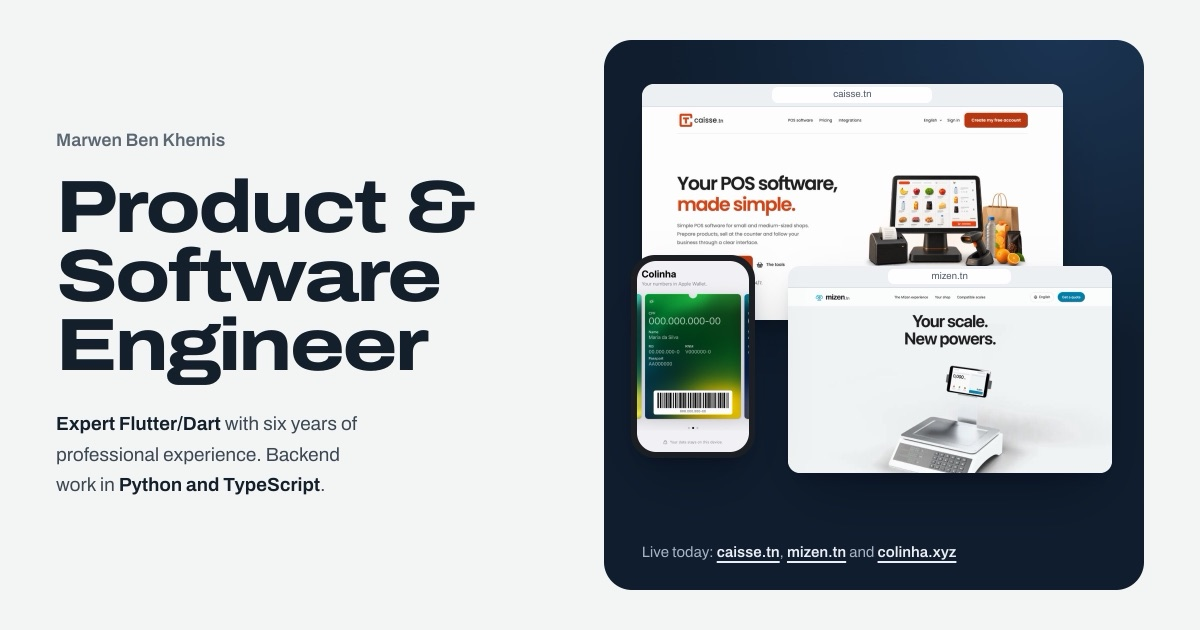
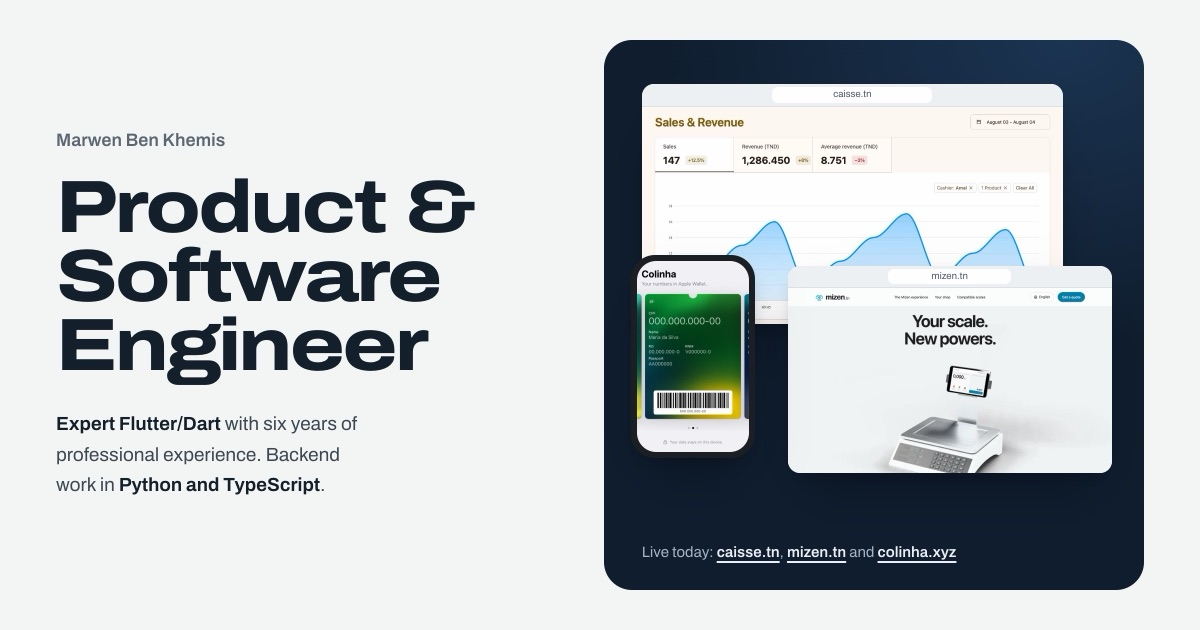
Present caisse.tn as Makhbazti's successor with its back office
Rename the Jerbien case study to caisse.tn, the successor to Makhbazti's
bakery ERP and production planning, with 20M transactions handled. Replace
the caisse.tn marketing screenshots with the real back office sales screen
(sample data from visual tests) and refresh the share image.

Changed region(s): [[0.555, 0.181, 0.8633, 0.5127], [0.7708, 0.181, 0.8633, 0.2111], [0.5242, 0.181, 0.6167, 0.2111]]

diff --git a/index.html b/index.html
@@ -8,7 +8,7 @@
   <meta name="description" content="Marwen Ben Khemis: product and software engineering from business discovery and architecture through implementation, release and support. Live products: caisse.tn, Mizen and Colinha.">
   <meta property="og:type" content="website">
   <meta property="og:title" content="Marwen Ben Khemis — Product &amp; Software Engineer">
-  <meta property="og:description" content="Live products caisse.tn, Mizen and Colinha, plus case studies: Karta, a customs platform that processed USD 30M in cumulative case value, and Jerbien, a POS with 10M+ transactions.">
+  <meta property="og:description" content="Live products caisse.tn, Mizen and Colinha, plus case studies: Karta, a customs platform that processed USD 30M in cumulative case value, and caisse.tn, a POS and retail operations platform that has handled 20M transactions.">
   <meta property="og:url" content="https://marwenbk.github.io/">
   <meta property="og:image" content="https://marwenbk.github.io/og.jpg">
   <meta name="twitter:card" content="summary_large_image">
@@ -48,14 +48,14 @@
         </div>
         <dl class="hero-impact" aria-label="Selected impact">
           <div><dt><a href="#karta">Karta</a></dt><dd><strong>USD 30M</strong> cumulative customs case value processed through the platform.</dd></div>
-          <div><dt><a href="#jerbien">Jerbien</a></dt><dd><strong>10M+ transactions</strong> handled by the POS and retail operations product.</dd></div>
+          <div><dt><a href="#caisse-case">caisse.tn</a></dt><dd><strong>20M transactions</strong> handled by the POS and retail operations platform.</dd></div>
         </dl>
       </div>
 
       <div class="hero-stage" aria-label="Three products I built, live today">
         <figure class="frame frame-browser stage-caisse">
           <div class="frame-bar" aria-hidden="true"><span class="frame-url">caisse.tn</span></div>
-          <img src="assets/caisse-en.jpg" width="1600" height="811" alt="The caisse.tn home page in English: Your POS software, made simple, with a touchscreen till, receipt printer and barcode scanner.">
+          <img src="assets/caisse-sales-light.jpg" width="1280" height="660" alt="The caisse.tn back office: the day's sales, revenue in Tunisian dinars and an hourly sales chart.">
         </figure>
         <figure class="frame frame-browser stage-mizen">
           <div class="frame-bar" aria-hidden="true"><span class="frame-url">mizen.tn</span></div>
@@ -79,19 +79,19 @@
           <figure class="product-media">
             <div class="frame frame-browser">
               <div class="frame-bar" aria-hidden="true"><span class="frame-url">caisse.tn</span></div>
-              <img src="assets/caisse-ar.jpg" width="1600" height="811" loading="lazy" alt="The caisse.tn home page in Tunisian Arabic, laid out right to left.">
+              <img src="assets/caisse-sales-dark.jpg" width="1280" height="980" loading="lazy" alt="The caisse.tn back office in dark mode: sales, revenue and average basket, an hourly sales chart, and top products such as croissants, pain complet and mille-feuille.">
             </div>
-            <figcaption>The home page in Tunisian Arabic, the default language. It's also in French and English.</figcaption>
+            <figcaption>The back office's sales screen, shown with sample bakery data from the app's visual tests.</figcaption>
           </figure>
           <div class="product-text">
             <h3 id="caisse-title">caisse.tn</h3>
             <p class="product-kind">Point-of-sale software for small shops in Tunisia</p>
-            <p>caisse.tn is the Jerbien POS under its public name. The software is free for shops, and the site also sells touchscreen tills that arrive set up and ready to sell.</p>
+            <p>caisse.tn is the successor to Makhbazti, my bakery ERP and production-planning product, and it has handled 20 million transactions. The software is free for shops, and the site also sells touchscreen tills that arrive set up and ready to sell.</p>
             <p>At the counter, cashiers scan barcodes, sell by the piece or by weight, park a basket and come back to it, and keep selling when the internet drops. Owners import their catalogue from Excel, compare sales by period, product or cashier, and run several shops from one account.</p>
             <h4>What I built</h4>
             <p>The Flutter POS that runs on Android, Windows and Linux tills, the customer-facing display, the TypeScript and PostgreSQL backend, and the web back office, in Tunisian Arabic, French and English.</p>
             <p class="product-stack">Flutter, Dart, TypeScript, Node.js, PostgreSQL, Nuxt</p>
-            <p class="product-links"><a href="https://caisse.tn/en" target="_blank" rel="noopener">Visit caisse.tn <span aria-hidden="true">↗</span></a><a href="#jerbien">Read the Jerbien case study</a></p>
+            <p class="product-links"><a href="https://caisse.tn/en" target="_blank" rel="noopener">Visit caisse.tn <span aria-hidden="true">↗</span></a><a href="#caisse-case">Read the case study</a></p>
           </div>
         </article>
 
@@ -168,28 +168,28 @@
           </div>
         </article>
 
-        <article class="case" id="jerbien" aria-labelledby="jerbien-title">
+        <article class="case" id="caisse-case" aria-labelledby="caisse-case-title">
           <header class="case-header">
-            <div><p class="case-category">Retail &amp; business operations</p><h3 id="jerbien-title">Jerbien</h3><p class="case-summary">A complete POS and operations product built through Makhbazti Digitale. <a href="#caisse">Live today as caisse.tn</a>.</p></div>
-            <div class="case-role"><strong>Founder &amp; CEO, Makhbazti Digitale</strong><span>Oct 2020 – Jan 2026</span></div>
+            <div><p class="case-category">Retail &amp; business operations</p><h3 id="caisse-case-title">caisse.tn</h3><p class="case-summary">A complete POS and retail operations platform, and the successor to Makhbazti, a bakery ERP and production-planning product. Its POS was first built as Jerbien. <a href="#caisse">See the product</a>.</p></div>
+            <div class="case-role"><strong>Founder &amp; CEO, caisse.tn (formerly Makhbazti Digitale)</strong><span>Oct 2020 – Jan 2026</span></div>
           </header>
-          <dl class="case-impact" aria-label="Jerbien and Makhbazti impact">
-            <div><dt>Transactions handled by Jerbien</dt><dd>10M+</dd></div>
+          <dl class="case-impact" aria-label="caisse.tn and Makhbazti impact">
+            <div><dt>Transactions handled by caisse.tn</dt><dd>20M</dd></div>
             <div><dt>Less cashier checkout time across the wider redesign</dt><dd>About 80%</dd></div>
             <div><dt>Makhbazti bakery locations reached within three months</dt><dd>15+</dd></div>
           </dl>
           <div class="case-body">
             <div class="context-role">
-              <section aria-labelledby="jerbien-context"><h4 id="jerbien-context">Context</h4><p>The product served daily retail work: cashier checkout, catalogues, sales, refunds, customers and store operations. It needed to fit the people using it, keep checkout working through network interruptions, and connect the counter to the business tools behind it.</p></section>
-              <section aria-labelledby="jerbien-role"><h4 id="jerbien-role">My role</h4><p>I founded Makhbazti Digitale and led field research with owners, cashiers and staff. Their needs and habits informed the product priorities, UX and architecture.</p><p>I built across the product, led releases, customer rollout and support, and recruited, trained and mentored more than 50 interns.</p></section>
+              <section aria-labelledby="caisse-case-context"><h4 id="caisse-case-context">Context</h4><p>The product served daily retail work: cashier checkout, catalogues, sales, refunds, customers and store operations. It needed to fit the people using it, keep checkout working through network interruptions, and connect the counter to the business tools behind it.</p></section>
+              <section aria-labelledby="caisse-case-role"><h4 id="caisse-case-role">My role</h4><p>I founded Makhbazti Digitale and led field research with owners, cashiers and staff. Their needs and habits informed the product priorities, UX and architecture.</p><p>I built across the product, led releases, customer rollout and support, and recruited, trained and mentored more than 50 interns.</p></section>
             </div>
-            <section class="built" aria-labelledby="jerbien-built"><h4 id="jerbien-built">What I built</h4><div class="build-grid build-grid-four">
+            <section class="built" aria-labelledby="caisse-case-built"><h4 id="caisse-case-built">What I built</h4><div class="build-grid build-grid-four">
               <div><h5>Flutter POS clients</h5><p>Checkout and daily cashier workflows, with deliberate information hierarchy, whitespace and interaction details. The wider redesign combined cashier habits, shortcuts and hardware inputs.</p></div>
               <div><h5>Operations backend</h5><p>A TypeScript/PostgreSQL API for stores, users, catalogues, sales, payments and refunds, with typed validation and generated clients.</p></div>
               <div><h5>Merchant &amp; admin tools</h5><p>A Nuxt merchant portal for the store's business workflows, plus React administration tools for device status, alerts, command history and operations.</p></div>
               <div><h5>Offline work &amp; integrations</h5><p>Offline checkout and queued sales, connected printing and barcode scanning, POS networking and device integrations that supported everyday use.</p></div>
             </div></section>
-            <section class="delivery" aria-labelledby="jerbien-delivery"><h4 id="jerbien-delivery">Delivery &amp; support</h4><p>I built and operated CI/CD and release pipelines, infrastructure and monitoring, then led customer rollout and production support. Makhbazti products reached 15+ bakery locations within three months; the company earned Tunisia's national Startup Label.</p></section>
+            <section class="delivery" aria-labelledby="caisse-case-delivery"><h4 id="caisse-case-delivery">Delivery &amp; support</h4><p>I built and operated CI/CD and release pipelines, infrastructure and monitoring, then led customer rollout and production support. Makhbazti products reached 15+ bakery locations within three months; the company earned Tunisia's national Startup Label.</p></section>
             <details class="technical-detail"><summary>Technical detail <span class="plus" aria-hidden="true"></span></summary><div><p>The backend implemented atomic sales and refunds, idempotency controls, exact decimal money handling, ledger-safe reversals and generated Dart/TypeScript SDKs. Authentication included passkeys and JWTs.</p><p>Delivery included GitHub Actions, container publishing, Linux packaging, health checks and monitoring. Flutter clients supported offline work, queued local changes and idempotent replay.</p></div></details>
           </div>
         </article>
@@ -204,7 +204,7 @@
         </div>
         <ol class="experience-list">
           <li><p class="experience-date">Jul 2025 – Aug 2026</p><div><h3>Karta / DJAM DKS</h3><p class="experience-role">Forward Deployed Engineer → CTO</p></div><p>Forward Deployed Engineer, remote from Tunis (Jul 2025–Feb 2026); CTO, on-site in Abidjan (Feb–Aug 2026). Business discovery, workflow architecture, implementation and production support.</p></li>
-          <li><p class="experience-date">Oct 2020 – Jan 2026</p><div><h3>Makhbazti Digitale</h3><p class="experience-role">Founder &amp; CEO</p></div><p>Led field research, built Jerbien and other retail products, and owned rollout and support. Recruited, trained and mentored 50+ interns.</p></li>
+          <li><p class="experience-date">Oct 2020 – Jan 2026</p><div><h3>caisse.tn</h3><p class="experience-role">Founder &amp; CEO, formerly Makhbazti Digitale</p></div><p>Founded Makhbazti, a bakery ERP and production-planning product, which grew into caisse.tn, a POS and retail operations platform. Led field research, built the products, and owned rollout and support. Recruited, trained and mentored 50+ interns.</p></li>
           <li><p class="experience-date">May – Jul 2025</p><div><h3>Moojup</h3><p class="experience-role">IT Specialist (Flutter / Android), internship</p></div><p>Built a reusable Flutter integration for device functions, giving partner teams a Dart API for native Android capabilities.</p></li>
           <li><p class="experience-date">Jan – Jun 2023</p><div><h3>DataDoIt</h3><p class="experience-role">Data Analyst (Data Engineering), internship</p></div><p>Built a PostgreSQL warehouse and Python ETL pipelines from MongoDB, with Power BI reporting and CI/CD delivery.</p></li>
         </ol>
